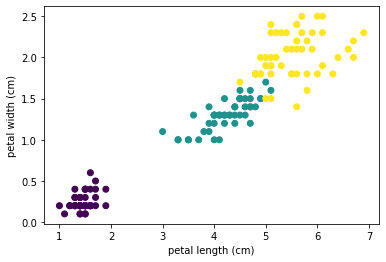
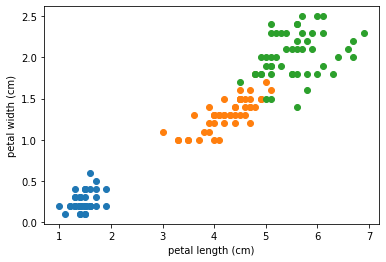
Lab 2

diff --git a/_posts/2021-08-30-ml.md b/_posts/2021-08-30-ml.md
@@ -65,6 +65,9 @@ tags: CSE2510
     - [Test sets](#test-sets)
     - [Univariate model](#univariate-model)
     - [Probability density function](#probability-density-function)
+    - [Posterior probabilities](#posterior-probabilities)
+    - [Bayes Classifier](#bayes-classifier)
+      - [Decision boundary](#decision-boundary-1)
 
 ## What is machine learning?
 * With machine learning we can automatize boring simple repetitive tasks such as identifying patterns in a picture and group the patterns found into labels (i.e. recognising if the picture has a dog, a cat, a fruit...)
@@ -381,7 +384,7 @@ unknown object in the most likely class
 * Classifiers are often rewritten i.e. such that the derivative is easier to compute
 
 ### Model
-* Note on the probability function for the conditional probability \\(p(x\|C_k))\\ (called class conditional probability): The shape of the distribution (utterly based on the training data) is based on the model used in the training phase.
+* Note on the probability function for the conditional probability \\(p(x\|C_k)\\)( (called class conditional probability): The shape of the distribution (utterly based on the training data) is based on the model used in the training phase.
   * We covered a sample [linear moder](#non-probabilstic-example-polynomial-curve-fitting-linear-model) but more details on selecting a model come in next sections
 * During training estimate the model parameters such that the example objects fit well: maximum likelihood estimators
 
@@ -700,7 +703,9 @@ plt.xlabel(iris.feature_names[0])
 plt.ylabel(iris.feature_names[1])
 plt.show()
 # Create a scatterplot of the third and fourth feature.
-plt.scatter(iris.data[:, 2], iris.data[:, 3], c=iris.target)
+plt.scatter(iris.data[np.where(iris.target == 0), 2], iris.data[np.where(iris.target == 0), 3], label=iris.target_names[0])
+plt.scatter(iris.data[np.where(iris.target == 1), 2], iris.data[np.where(iris.target == 1), 3], label=iris.target_names[1])
+plt.scatter(iris.data[np.where(iris.target == 2), 2], iris.data[np.where(iris.target == 2), 3], label=iris.target_names[2])
 plt.xlabel(iris.feature_names[2])
 plt.ylabel(iris.feature_names[3])
 plt.show()
@@ -762,7 +767,7 @@ plt.legend()
 plt.show()
 ```
 
-![404]({{ site.url }}/images/ml/labplot1.png)
+![404]({{ site.url }}/images/ml/petal_length.png)
 
 * That looks about correct!
 * Now, let's find the parameters of the normal distribution that describe our data best.
@@ -865,3 +870,204 @@ plt.show()
 
 * The histogram shows the number of flowers that have a petal length within a certain window (bin). That means the values shown in the histogram are absolute counts.
 
+### Posterior probabilities
+* To get the posterior probability, we can use Bayes' rule (and the sum rule):
+  * $$(C_i | x) =  \frac{p(x | C_i) P(C_i)}{p(x)} = \frac{p(x | C_i) P(C_i)}{\sum_{k=1}^K p(x | C_k) P(C_k)}$$
+* We will use the good ol' \\(P(C_i \| x)\\) posterior probability as a class classifier such that we can also know the probability of the classification being correct (rather than just "most likely among all other classes")
+  * Hint, since we assumed that the gaussian model (\\(p(x\|\mu,\sigma)\\)) for the class conditional probability, \\(p(x\|C_k) = p(x\|\mu,\sigma)\\) with \\(\mu\\) and \\(\sigma\\) being the parameters of the objects that belong to class k
+
+
+
+```py
+def posterior(x, means, sds, priors, i):
+    """
+    Compute the posterior probability P(C_i | x).
+    :param x: the sample to compute the posterior probability for.
+    :param means: an array of means for each class.
+    :param sds: an array of standard deviation values for each class.
+    :param priors: an array of frequencies for each class.
+    :param i: the index of the class to compute the posterior probability for.
+    """
+    posterior = 0
+    
+    # START ANSWER
+    p_x = 0.0
+        for k in range(len(priors)):
+        p_x += normal_PDF(x, means[k], sds[k])*priors[k]
+        
+    posterior = normal_PDF(x, means[i], sds[i])*priors[i]/p_x
+    #END ANSWER
+    
+    return posterior
+
+means = [mean_setosa, mean_versicolor, mean_virginica]
+sds = [sd_setosa, sd_versicolor, sd_virginica]
+priors = [
+    setosa_X_train.shape[0]/X_train.shape[0],
+    versicolor_X_train.shape[0]/X_train.shape[0],
+    virginica_X_train.shape[0]/X_train.shape[0]
+]
+
+# Test out the code
+flower_idx = 6
+print("Flower belongs to class", iris.target_names[Y_train[flower_idx]])
+
+# iterate over all classes
+for i in range(3):
+    x_post = posterior(X_train[flower_idx, feature_idx], means, sds, priors, i)
+    print("Posterior probability for class", iris.target_names[i], ": ", x_post)
+
+post_setosa = posterior(X_train[flower_idx, feature_idx], means, sds, priors, 0)
+post_versicolor = posterior(X_train[flower_idx, feature_idx], means, sds, priors, 1)
+post_virginica = posterior(X_train[flower_idx, feature_idx], means, sds, priors, 2)
+
+assert np.isclose(post_setosa, 1.1048294835009998e-107, rtol = 0.0001, atol = 0.), "Expected a different posterior probability"
+assert np.isclose(post_versicolor, 0.03817178391547811, rtol = 0.0001, atol = 0.), "Expected a different posterior probability"
+assert np.isclose(post_virginica, 0.9618282160845218, rtol = 0.0001, atol = 0.), "Expected a different posterior probability"
+```
+
+* Let's plot the posterior probabilities and compare them with the data
+
+```py
+xs = np.linspace(0, 7, 100)
+# START ANSWER
+plt.plot(xs, posterior(xs, means, sds, priors, 0),label=iris.target_names[0])
+plt.plot(xs, posterior(xs, means, sds, priors, 1),label=iris.target_names[1])
+plt.plot(xs, posterior(xs, means, sds, priors, 2),label=iris.target_names[2])
+
+plt.scatter(iris.data[np.where(iris.target == 0), 2], iris.target[np.where(iris.target == 0)])
+plt.scatter(iris.data[np.where(iris.target == 1), 2], iris.target[np.where(iris.target == 1)]*0.02)
+plt.scatter(iris.data[np.where(iris.target == 2), 2], iris.target[np.where(iris.target == 2)]*0)
+
+
+# END ANSWER
+plt.xlabel(iris.feature_names[feature_idx])
+plt.ylabel('Posterior probability')
+plt.legend()
+plt.show()
+```
+
+![404]({{ site.url }}/images/ml/postlab.png)
+
+* The posterior probabilities matches the data
+
+### Bayes Classifier
+* We can compute the posteriors for every class such that an input x in `classify(x,params,priors)` returns a class \\(C_i\\)
+
+```py
+def classify(x, means, sds, priors):
+    classification = -1
+    # START ANSWER
+    post_0 = posterior(x, means, sds, priors, 0)
+    post_1 = posterior(x, means, sds, priors, 1)
+    post_2 = posterior(x, means, sds, priors, 2)
+    
+    if (post_0 > post_1) and (post_0 > post_2): classification = 0
+    elif (post_1 > post_0) and (post_1 > post_2): classification = 1
+    elif (post_2 > post_0) and (post_2 > post_1): classification = 2
+    # END ANSWER
+    return classification
+
+# Test out the code
+flower_idxs = [5,20,30]
+predicted_classes = np.zeros(3, dtype=np.int64)
+for i, flower_idx in enumerate(flower_idxs):
+    predicted_classes[i] = classify(X_train[flower_idx, feature_idx], means, sds, priors)
+
+print("Predicted class", iris.target_names[predicted_classes])
+print("Flower belongs to class", iris.target_names[Y_train[flower_idxs]])
+assert (predicted_classes == Y_train[flower_idxs]).all()
+```
+```
+Predicted class ['virginica' 'versicolor' 'setosa']
+Flower belongs to class ['virginica' 'versicolor' 'setosa']
+```
+
+* Let's now use the test set to **evaluate** how good the classifier was by returning the percentage of elementsin the test set that were classified correctly
+
+```py
+def evaluate(X_test, Y_test, means, sds, priors):
+    accuracy = 0
+    # START ANSWER
+    total = len(Y_test)
+    predicted_classes = np.arange(total)
+    correct = 0
+    
+    for i in range(total):
+        predicted_classes[i] = classify(X_test[i], means, sds, priors)
+        if (predicted_classes[i] == Y_test[i]): correct+= 1
+    
+    accuracy = correct/total
+    # END ANSWER
+    return accuracy
+
+accuracy = evaluate(X_test[:, feature_idx], Y_test, means, sds, priors)
+
+print(accuracy)
+assert accuracy > 0.9, "Expected a higher accuracy"
+```
+
+#### Decision boundary
+* The function to create the decision boundaries does this:
+  * For each class, compute the posterior for 1000 points between 1 and 7
+  * If for any two classes the posteriors are as good as equal (and not very close to 0) at a point, add that point to the list of decision boundaries
+  * Plot vertical lines at these points
+
+```py
+def decision_boundary(means, sds, priors):
+    decision_boundaries = []
+    # START ANSWER
+    decision_boundaries = np.zeros(1000)
+    bcount = 0
+    
+    posterior_0 = np.zeros(1000)
+    posterior_1 = np.zeros(1000)
+    posterior_2 = np.zeros(1000)
+    
+    xs = np.linspace(1, 7, 1000)
+       
+    for i in range(1000):
+        posterior_0[i] = posterior(xs[i], means, sds, priors, 0)
+        posterior_1[i] = posterior(xs[i], means, sds, priors, 1)
+        posterior_2[i] = posterior(xs[i], means, sds, priors, 2)
+         
+        if np.isclose(posterior_0[i],posterior_1[i], atol=0.05) and posterior_0[i] > 0.1:
+            decision_boundaries[bcount] = xs[i] 
+            bcount += 1
+
+        elif np.isclose(posterior_0[i],posterior_2[i], atol=0.05) and posterior_0[i] > 0.1:
+            decision_boundaries[bcount] = xs[i] 
+            bcount += 1
+
+        elif np.isclose(posterior_1[i],posterior_2[i], atol=0.05) and posterior_1[i] > 0.1:
+            decision_boundaries[bcount] = xs[i] 
+            bcount += 1  
+        
+    
+    # END ANSWER
+    return decision_boundaries
+
+# Create a scatterplot of the third feature.
+feature_idx2 = 3
+
+plt.scatter(iris.data[np.where(iris.target == 0), 2], iris.target[np.where(iris.target == 0)])
+plt.scatter(iris.data[np.where(iris.target == 1), 2], iris.target[np.where(iris.target == 1)]*0.02)
+plt.scatter(iris.data[np.where(iris.target == 2), 2], iris.target[np.where(iris.target == 2)]*0)
+
+plt.xlabel(iris.feature_names[feature_idx])
+plt.ylabel('Posterior probability')
+decision_boundaries = decision_boundary(means, sds, priors)
+for boundary in decision_boundaries:
+    if boundary != 0:
+        plt.axvline(x=boundary)
+
+# Add the posterior probabilities
+plt.plot(xs, posterior(xs, means, sds, priors, 0),label=iris.target_names[0])
+plt.plot(xs, posterior(xs, means, sds, priors, 1),label=iris.target_names[1])
+plt.plot(xs, posterior(xs, means, sds, priors, 2),label=iris.target_names[2])
+plt.show()
+```
+
+* This method was complicated, it's easier to just solve for the x where the class probabilities are equal
+
+![404]({{ site.url }}/images/ml/labboundary.png)
